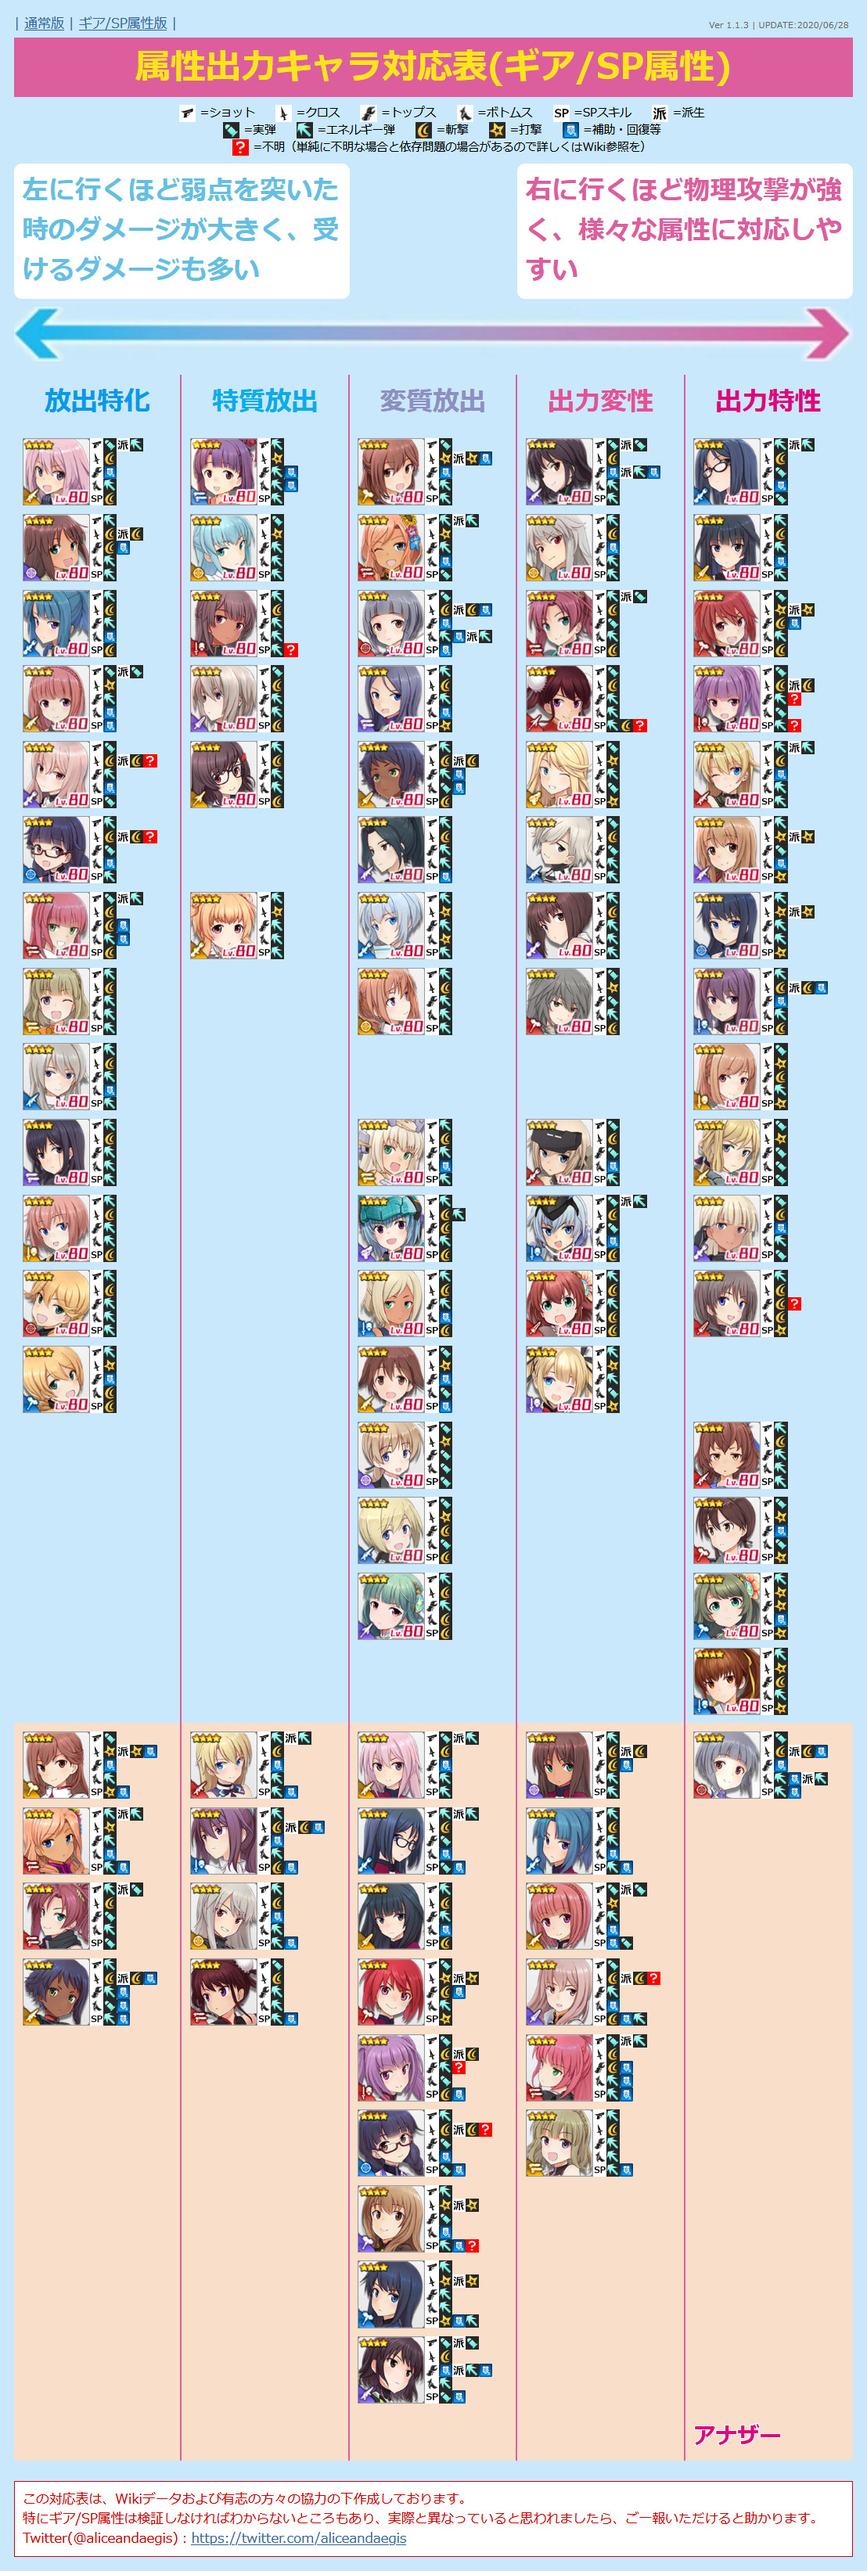
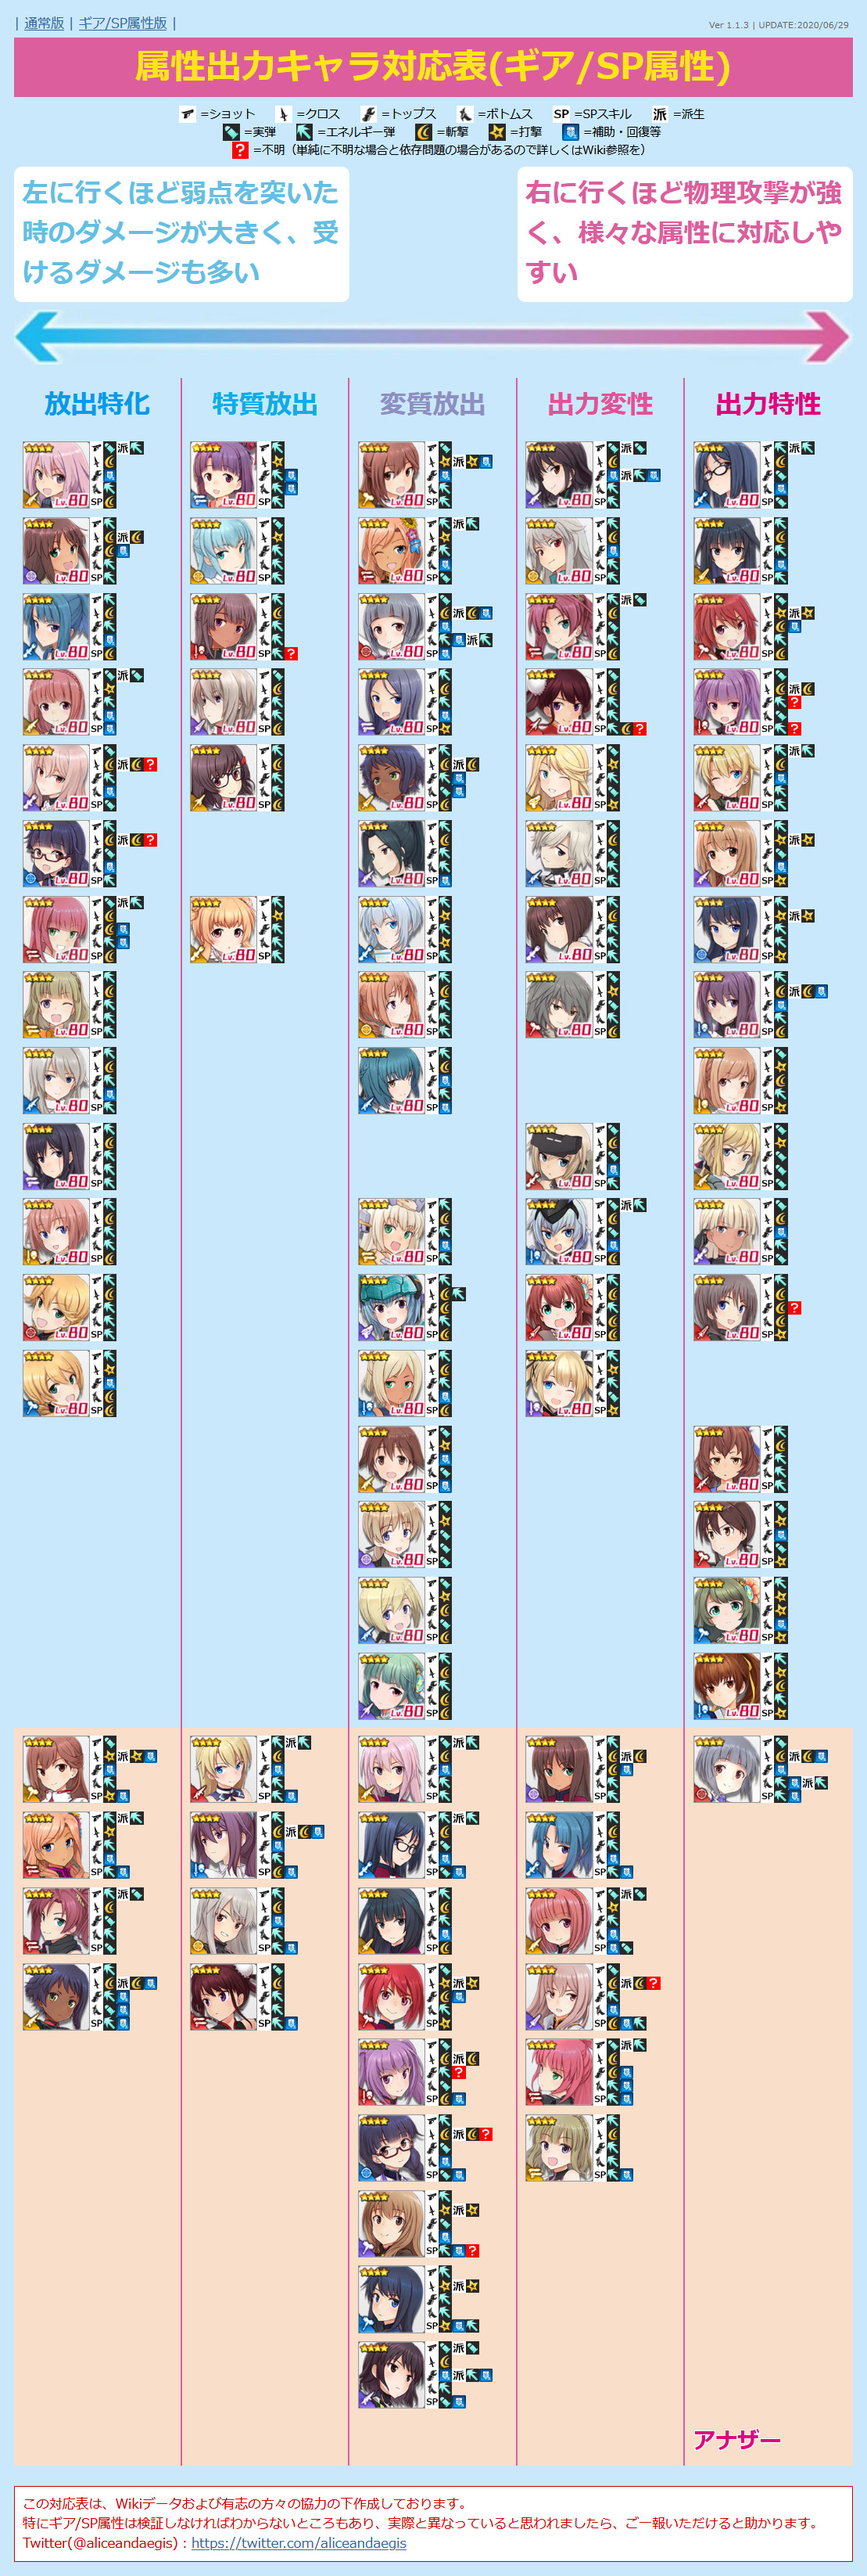
UPDATE chara data
新キャラ　ミアを追加
HTML内部コメントの説明文のミスを修正

diff --git a/alice.html b/alice.html
@@ -12,7 +12,7 @@
   <script>
 
 /* 更新情報 必要に応じて書き換えてください */
-  var version = "Ver 1.1.3 | UPDATE:2020/06/28";
+  var version = "Ver 1.1.3 | UPDATE:2020/06/29";
 
 /*
   jsonファイルを外部に設置すると単にHTMLファイルを開いたときに動作しなくなるので当面はHTMLファイル内に
@@ -27,7 +27,7 @@
   category = アナザーは10、コラボは99、それ以外は空欄
 
   equip1   = ショット：1=実弾、2=エネルギー弾（複数=12、派生=1/2）
-  equip2   = クロス：3=打撃、4=斬撃（複数の場合=34）
+  equip2   = クロス：3=斬撃、4=打撃（複数の場合=34）
   equip3   = トップススキル：1=実弾、2=エネルギー弾、3=打撃、4=斬撃、5=補助/回復
   equip4   = ボトムススキル：1=実弾、2=エネルギー弾、3=打撃、4=斬撃、5=補助/回復
   sp       = ボトムススキル：1=実弾、2=エネルギー弾、3=打撃、4=斬撃、5=補助/回復
@@ -1027,6 +1027,20 @@
       "sp": "4",
       "attr": "3",
       "link": "https://wikiwiki.jp/alicegear/%E4%B9%9D%E7%82%89%E9%89%84%E6%82%A0%E9%83%BD",
+      "category": ""
+    },
+    {
+      "id": "47",
+      "type": "3",
+      "src": "normal-mia.png",
+      "name": "ミア・ヴォワザン",
+      "equip1": "2",
+      "equip2": "3",
+      "equip3": "5",
+      "equip4": "2",
+      "sp": "5",
+      "attr": "4",
+      "link": "https://wikiwiki.jp/alicegear/%E3%83%9F%E3%82%A2%E3%83%BB%E3%83%B4%E3%82%A9%E3%83%AF%E3%82%B6%E3%83%B3",
       "category": ""
     },
     {
